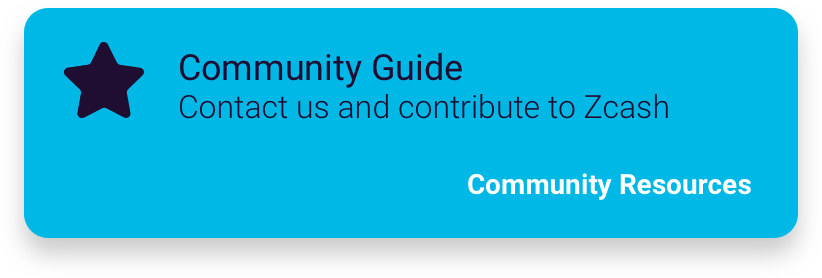
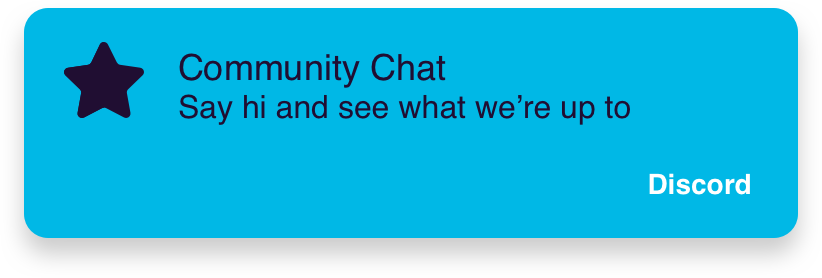
Update some images and change link to discord

Changed region(s): [[0.2129, 0.3453, 0.8212, 0.4604], [0.2129, 0.1727, 0.5779, 0.3165], [0.5474, 0.6043, 0.9124, 0.7194]]

diff --git a/source/index.rst b/source/index.rst
@@ -32,14 +32,14 @@ This is the home for Zcash documentation for end users and developers. Check out
 
 .. image:: rtd_pages/images/box_community.png
    :width: 49%
-   :target: https://zips.z.cash
+   :target: https://discord.gg/PhJY6Pm
 
 What is Zcash?
 --------------
 
 `Zcash <https://z.cash/>`__ is an implementation of the "Zerocash" protocol forked off Bitcoin. It is also used to refer to one unit of the cryptocurrency (ZEC), or Electric Coin Company (previously Zcash Company). 
 
-.. image:: rtd_pages/images/zcash-privacy.jpg
+.. image:: rtd_pages/images/zcash-privacy.png
 
 The Zcash protocol, and therefore, using ZEC, can offer a far higher standard of privacy than Bitcoin or other privacy-focused cryptocurrencies. We achieve this through a sophisticated zero-knowledge proving confidentiality of transaction metadata. For more technical details, please check out our `Protocol Specification <https://github.com/zcash/zips/raw/master/protocol/protocol.pdf>`_.
 
@@ -53,7 +53,7 @@ Other privacy schemes provide different, and less strict definitions of privacy.
 
 Join  the community! 
 --------------------
-Zcash development is an open collaborative process. We want contributors like you work along side us. 
+Zcash development is an open collaborative process. We want contributors like you! 
 
 Important links: 
 
